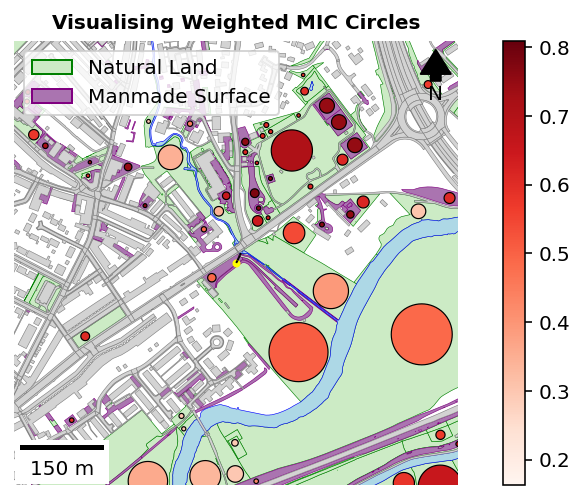
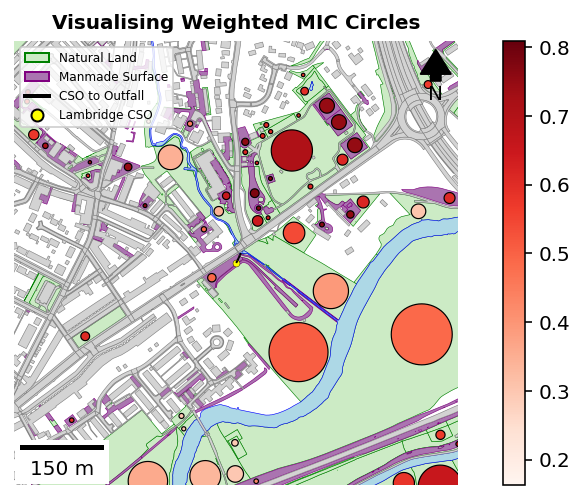
updated colours and legend

Changed region(s): [[0.0308, 0.0902, 0.4932, 0.2705]]

diff --git a/dissertation-code.py b/dissertation-code.py
@@ -546,8 +546,8 @@ MIC_landuse.plot(
     linewidth=0.6)
 
 #CSO Plot ---------
+cso.plot(ax = my_ax, color = 'yellow', edgecolor='black', markersize=12, linewidths=0.2)
 cso2outfall.plot(ax = my_ax, color = 'black', linewidth = 1)
-cso.plot(ax = my_ax, color = 'yellow', markersize =9)
 #outfall.plot(ax = my_ax, color = 'blue', markersize =9)
 
 # Extras on the map ---------
@@ -567,8 +567,8 @@ my_ax.legend(handles=[
         Patch(facecolor='#ccebc5', edgecolor='green', label="Natural Land"),
         Patch(facecolor='#aa74b0', edgecolor='purple', label="Manmade Surface"),
         Line2D([0], [0], color='black',  lw=2, label='CSO to Outfall' ),
-        Line2D([0], [0], marker='o', markerfacecolor='yellow',  markersize=6, label='CSO')
-    ],loc='upper left')
+        Line2D([0], [0], marker='o', linestyle='None', markerfacecolor='yellow', markeredgecolor='black', markersize=6, label='Lambridge CSO')
+    ],loc='upper left', fontsize=6)
 
 # save the result
 savefig('out/Visualising Maps.png', bbox_inches='tight')
